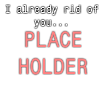
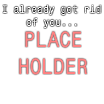
NG+3 v1.9978

Changed region(s): [[0.0, 0.0288, 0.9808, 0.2885]]

diff --git a/javascripts/game.js b/javascripts/game.js
@@ -375,7 +375,7 @@ function updateNewPlayer(reseted) {
         player.galacticSacrifice = resetGalacticSacrifice()
     }
     if (modesChosen.ngpp > 1) {
-        player.aarexModifications.newGame3PlusVersion = 1.9977
+        player.aarexModifications.newGame3PlusVersion = 1.9978
         player.dbPower = 1
         player.peakSpent = 0
         player.masterystudies = []
@@ -879,7 +879,8 @@ function updateWorstChallengeBonus() {
 	actualWorst = Math.max(33e-6, Math.min.apply(null, player.challengeTimes) * 0.1)
 	// Change very slightly between 0.1s and 0.02s; then reward clever players
 	if (actualWorst < 0.1) {
-		if (actualWorst > 0.02) {
+		if (!player.galacticSacrifice) actualWorst = 0.1 //Don't let the bonus change outside of NG+++
+		else if (actualWorst > 0.02) {
 			actualWorst = 0.075 + 0.25 * actualWorst;
 		} else {
 			actualWorst = (0.075/0.02 + 0.25) * actualWorst;

diff --git a/javascripts/core/achievements.js b/javascripts/core/achievements.js
@@ -112,13 +112,13 @@ const allAchievements = {
   ngpp17 : "GAS GAS GAS",
   ngpp18 : "Universal harmony",
   ng3p11 : "I don't have enough fuel!",
-  ng3p12 : "To sub-atomic!",
+  ng3p12 : "Sub-atomic",
   ng3p13 : "Hadronization",
   ng3p14 : "Work harder.",
   ng3p15 : "No more tax fraud!",
   ng3p16 : "And the winner is...",
   ng3p17 : "Old age",
-  ng3p18 : "I already rid of you...",
+  ng3p18 : "I already got rid of you...",
   s11 : "The first one's always free",
   s12 : "Just in case",
   s13 : "It pays to have respect",

diff --git a/javascripts/core/load_functions.js b/javascripts/core/load_functions.js
@@ -809,7 +809,7 @@ if (player.version < 5) {
       }
   }
   if (player.aarexModifications.newGame3PlusVersion < 1.9975&&!player.quantum.challenge) player.quantum.challenge=[]
-  if (player.aarexModifications.newGame3PlusVersion < 1.9977) player.aarexModifications.newGame3PlusVersion=1.9977
+  if (player.aarexModifications.newGame3PlusVersion < 1.9978) player.aarexModifications.newGame3PlusVersion=1.9978
   if (player.aarexModifications.newGame3PlusVersion==undefined) {
       colorBoosts={
           r:1,
